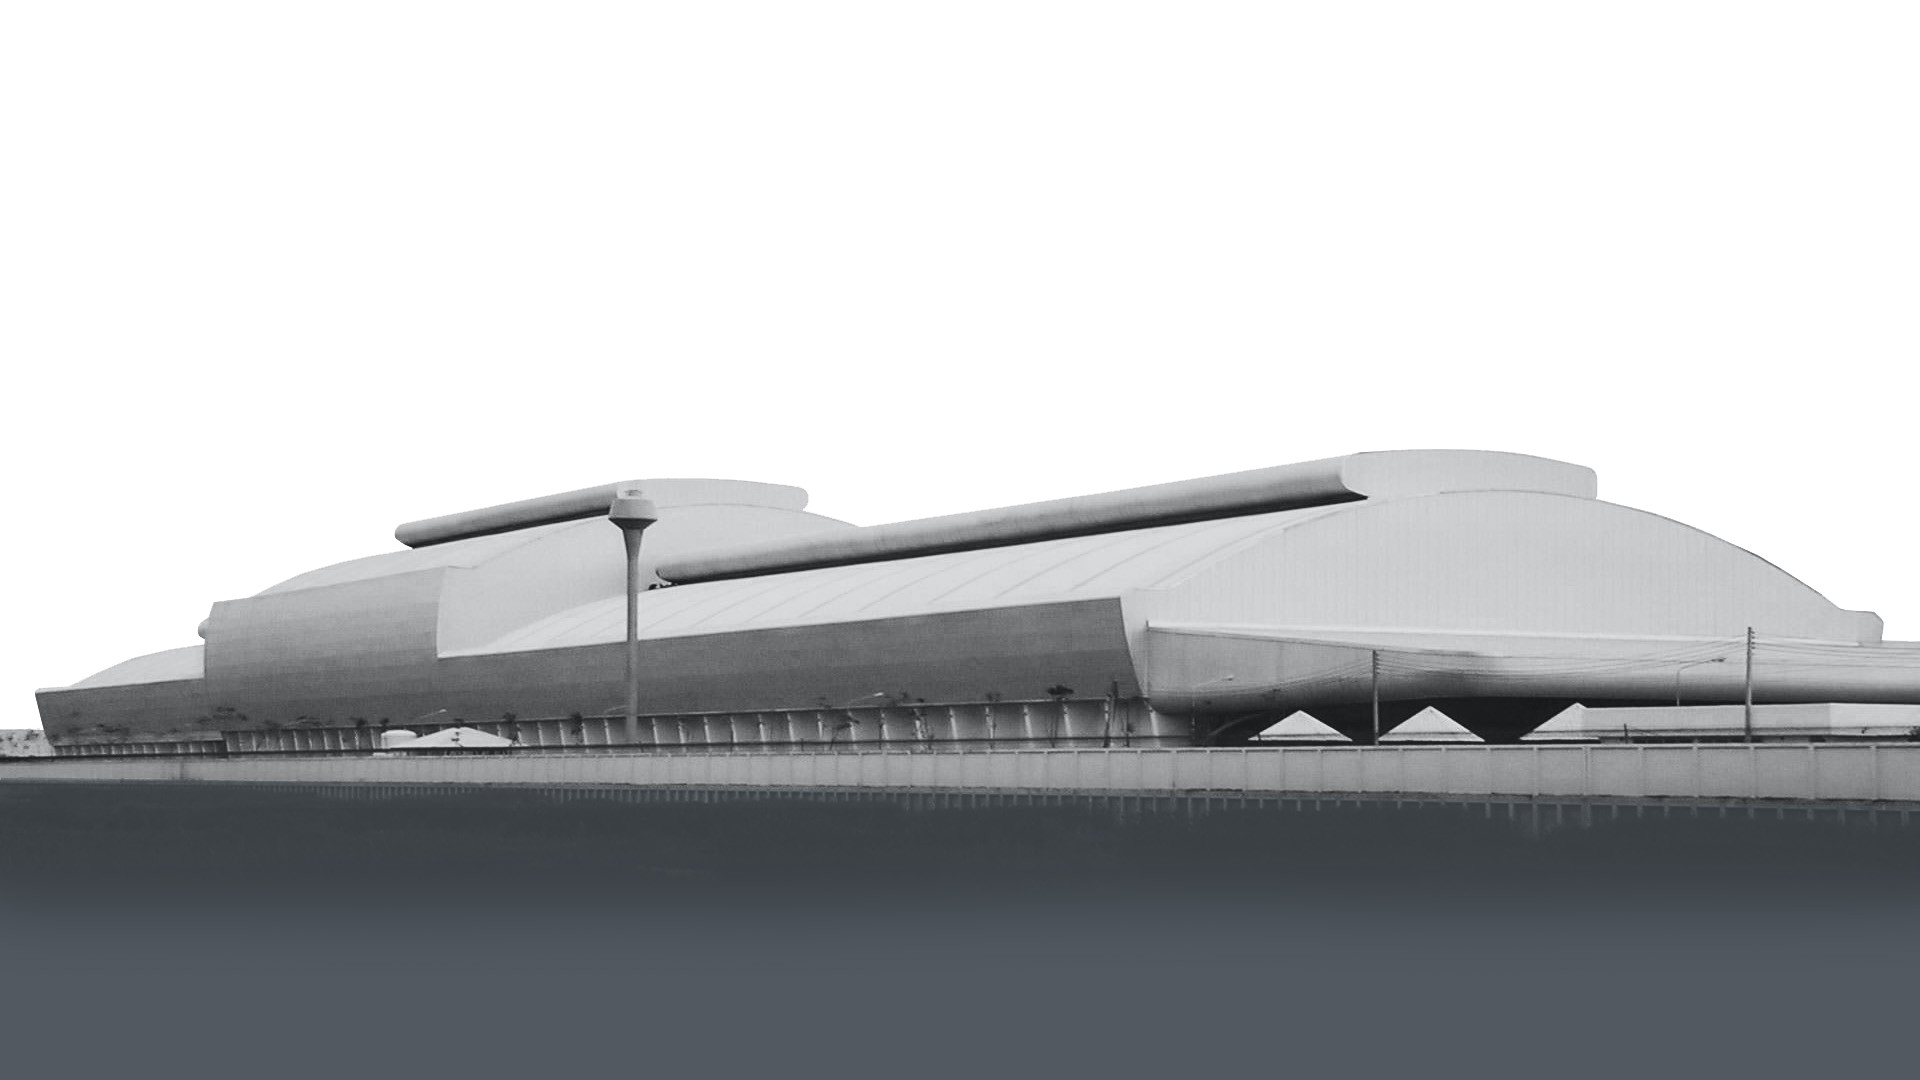
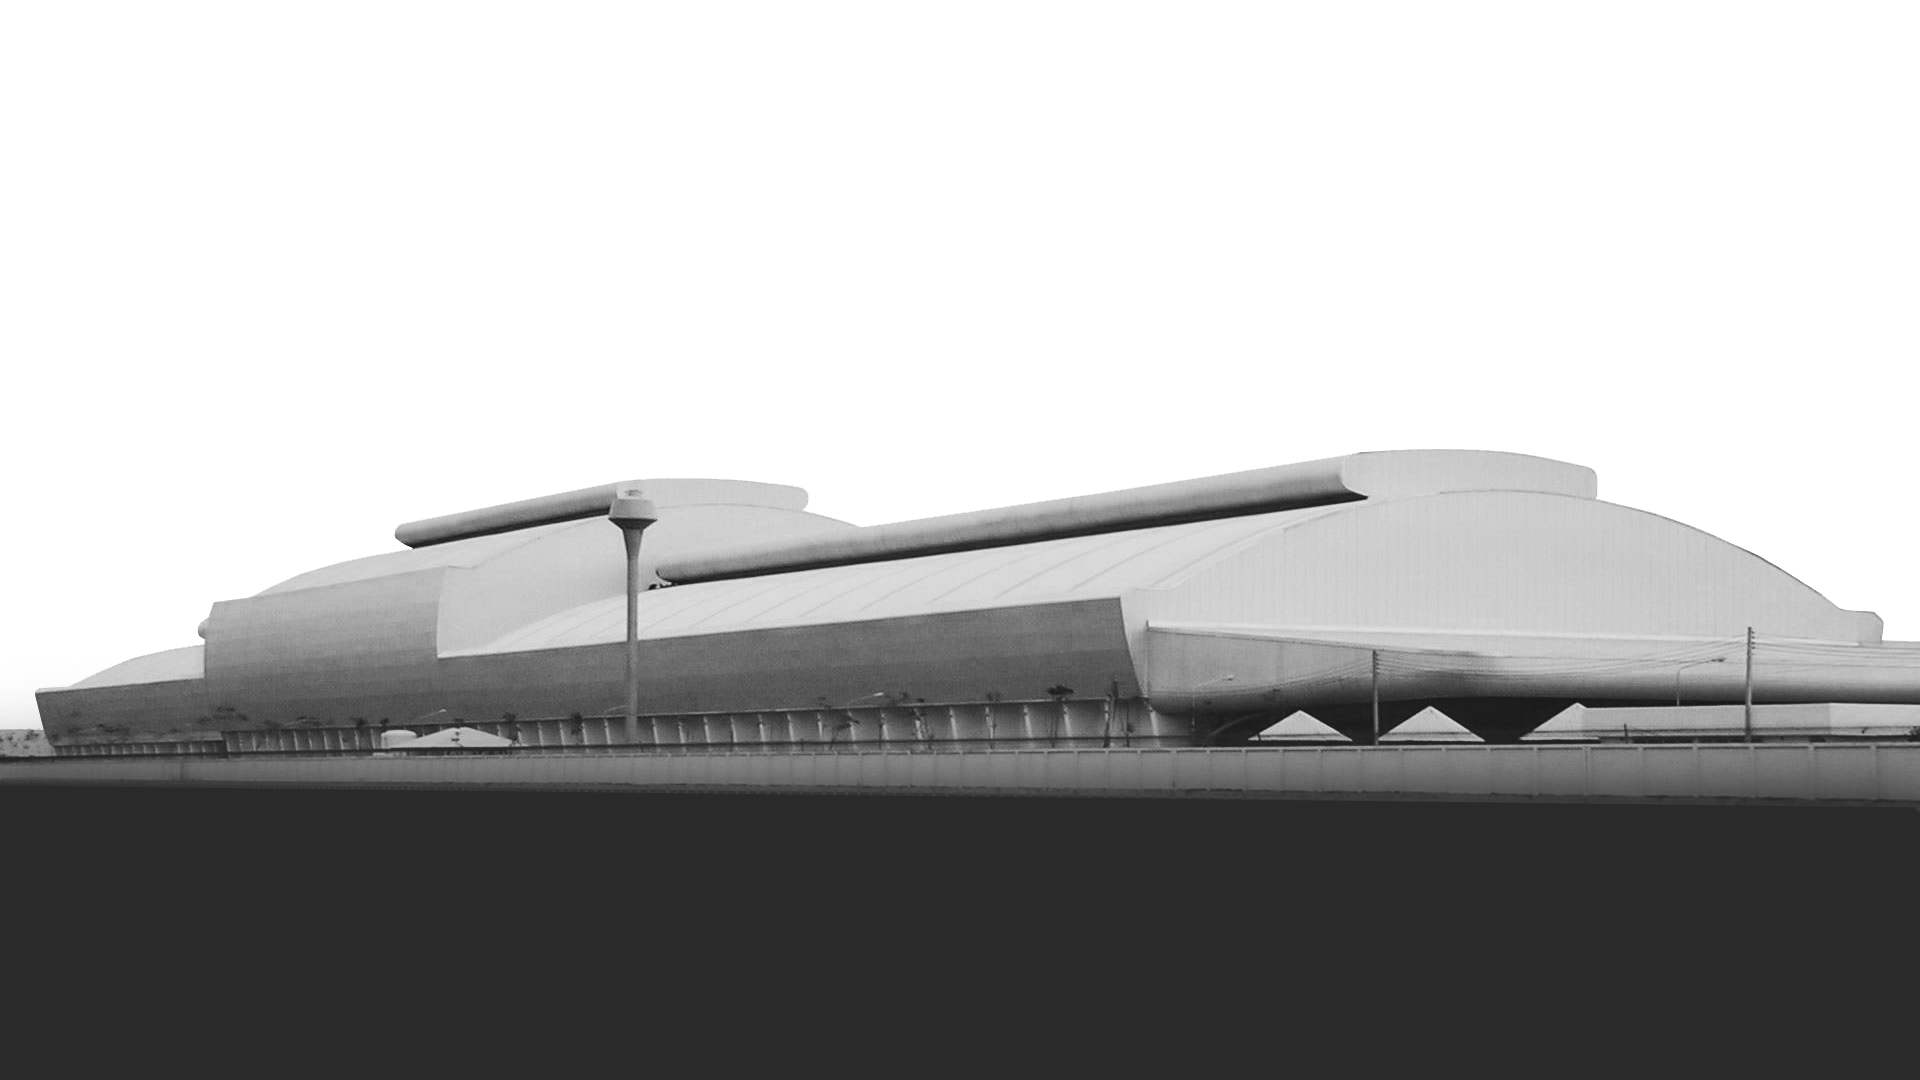
Typo, Image, Re-composition

Changed region(s): [[0.0, 0.6722, 1.0, 1.0]]

diff --git a/index.html b/index.html
@@ -17,6 +17,7 @@ Special Thanks - Cadson Demak for beatufiful typeface.
   <meta name="viewport" content="width=device-width, initial-scale=1.0">
   <link rel="stylesheet" href="asset/css/style.css">
   <link href="https://fonts.googleapis.com/css?family=Prompt:100,200,300,400" rel="stylesheet">
+  <link href="http://code.ionicframework.com/ionicons/2.0.1/css/ionicons.min.css" rel="stylesheet">
   <title>Saotip</title>
 
   <link rel="shortcut icon" type="image/png" href=""/>
@@ -55,11 +56,18 @@ Special Thanks - Cadson Demak for beatufiful typeface.
       <li><a href="">ติดต่อเรา</a></li>
     </ul>
     <div class="hero-wrapper">
-      <h1>SAOTIP</h1>
+
+      <!-- waiting for SVG to replace -->
+      <img class="logo" src="asset/image/logo.png"></img>
+      <h1>S<span style="color:#9e0707;">A</span>OTIP</h1>
+      <!-- end -->
+
       <h2>รับเหมาก่อสร้างโรงงาน โกดัง สำนักงาน และอาคาร</h2>
     </div>
     <img class="hero-img" src="asset/image/hero.png" />
+    <!--
     <img class="crane" src="asset/image/crane.png" data-rjs="2" />
+  -->
   </section>
   <section class="content1">
     <h1 class="headline">เราคือเสาทิพย์</h1>
@@ -77,10 +85,13 @@ Special Thanks - Cadson Demak for beatufiful typeface.
       <li class="slogan2">ซื่อสัตย์กับลูกค้าด้วยราคาที่เป็นธรรม</li>
       <li class="slogan3">เสร็จตามหลักวิศวกรรมและสถาปัตยกรรม</li>
     </ul>
-<!--=======
-    <p class="description">บริษัท เสาทิพย์ จำกัด ทำธุรกิจเกี่ยวกับรับเหมาก่อสร้างโครงสร้างทางโยธา และสถาปัตยกรรม และติดตั้งงานระบบไฟฟ้า สุขาภิบาล ของโรงงานอุตสาหกรรม อาคารสำนักงานต่าง ๆ และคอนโด ทั้งขนาดเล็กจนถึงขนาดใหญ่ โดยใช้ระบบการจัดการและบริหารโครงการแบบมืออาชีพ ประกอบด้วยวิศวกรจากสาขาต่าง ๆ ทั้งโยธา ไฟฟ้า และเครื่องกล รวมถึงโฟร์แมนที่มากด้วยประสบการณ์ รวมระยะเวลายาวนาน 37 ปี</p>
->>>>>>> origin/master-->
   </section>
+
+  <section class="showcase showcase1">
+    <p><span class="ion-ios-location"></span> โกดังเก็บข้าวสาร และโรงงานหลัก  บ.ชัยทิพย์ จก.</p>
+</p>
+  </section>
+
   <section class="content2">
     <h1 class="headline">บริการของเรา</h1>
     <h2 class="sub-headline">เรามีประสบการณ์ และ ความชำนาญในการควบคุมโครงการก่อสร้าง</h2>
@@ -115,6 +126,10 @@ Special Thanks - Cadson Demak for beatufiful typeface.
       <h3>และอื่นๆอีกมากมาย</h3>
       <a href="#" class="button">ชมผลงาน</a>
     </div>
+  </section>
+  <section class="showcase showcase2">
+    <p><span class="ion-ios-location"></span> โกดังเก็บข้าวสาร และโรงงานหลัก  บ.ชัยทิพย์ จก.</p>
+</p>
   </section>
   <footer>
     <h1 class="headline">ติดต่อเรา</h1>

diff --git a/asset/css/style.css b/asset/css/style.css
@@ -98,16 +98,23 @@ ul,li{
   text-transform: uppercase;
 }
 
+.logo {
+  margin-top: 70px;
+  width: 60px;
+}
+
 .hero-img{
   position: absolute;
   bottom: 0;
   width: 100%;
   z-index:1;
+  transition:  transform ease 1s;
 }
 
 .hero-img:hover{
   transform: translateY(20px);
   transform: translateZ(5);
+  transition:  transform ease 1s;
 }
 
 .hero-wrapper{
@@ -127,26 +134,25 @@ ul,li{
 }
 
 
-
-
 .hero-wrapper > h1{
   font-weight: 200;
   font-size: 60px;
   letter-spacing: 4px;
-  color:#333;
+  color:#000;
 }
 
 .hero-wrapper > h2{
+  margin-top: 40px;
   font-weight: 100;
   font-size: 28px;
-  color:#666;
+  color:#999;
 }
 
 /* End of Main */
 .content1 {
   width: 100vw;
   height: auto;
-  background: #525961;
+  background: #2A2A2A;
   text-align: center;
   box-sizing: border-box;
   padding-bottom: 3rem;
@@ -180,12 +186,13 @@ ul,li{
   border-radius: 500px;
   background: rgba(0, 0, 0, 0.6);
   display: inline-block;
-  transition: -webkit-transform 2s ease-out;
-  transition: transform 2s ease-out;
+  transition:  transform ease 1s;
 }
 
 .circle:hover {
+  transform: translateY(-10px);
   opacity: 0.9;
+  transition:  transform ease 1s;
 }
 
 .circle h1{
@@ -229,6 +236,40 @@ ul,li{
   opacity: 0.8;
 >>>>>>> origin/master
 }
+
+/* Showcase */
+
+.showcase {
+  background-color:#666;
+  width: 100%;
+  height:100vh;
+  position: relative;
+  text-align: center;
+}
+
+.showcase p {
+  margin-left: 200px;
+  display: inline-block;
+  font-size: 20px;
+  position: absolute;
+  bottom: 20px;
+}
+
+.showcase1 {
+  background-image: url('../image/showcase_1.jpg');
+  background-position: center bottom;
+  background-size: cover;
+  color:#333;
+}
+
+.showcase2 {
+  background-image: url('../image/showcase_2.jpg');
+  background-position: center bottom;
+  background-size: cover;
+  color:#fff;
+  text-shadow: 0 0 12px rgba(0, 0, 0, 0.41)
+}
+
 
 /* End of Content1 */
 
@@ -383,12 +424,12 @@ ul,li{
 /* End of Content3 */
 
 footer{
-  background: #525961;
+  background: #2A2A2A;
   text-align: center;
   color: #fff;
   line-height: 70px;
   box-sizing: border-box;
-  padding: 4rem 0 2rem 0;
+  padding: 8rem 0 8rem 0;
 }
 
 footer > .headline{
